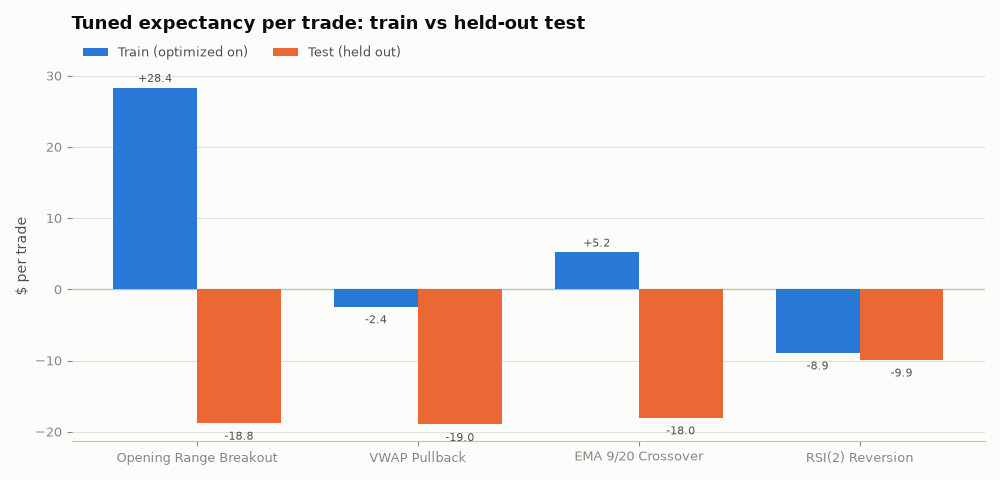
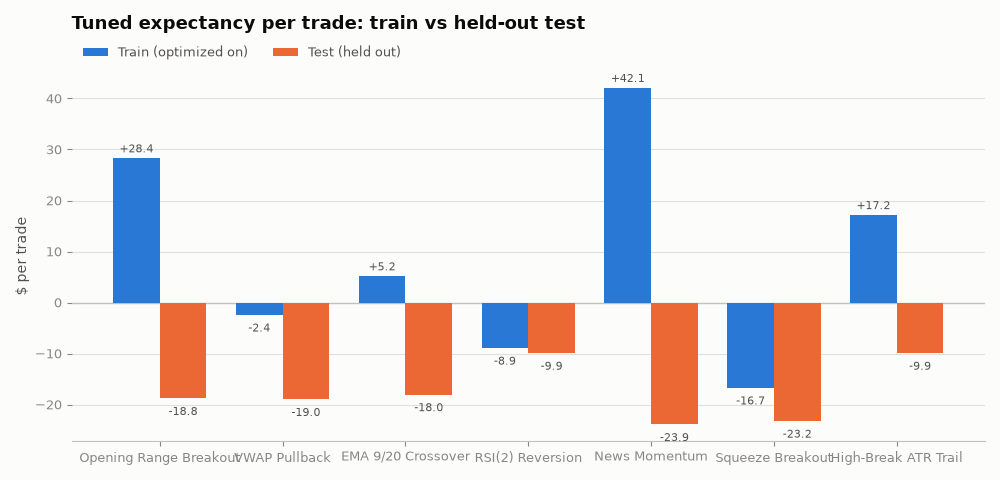
tuning v0.3: out-of-sample check across all 8 — News Momentum's edge doesn't survive
- default News Momentum on held-out month: -$20.45/trade (full-window +$1.62
  was earned entirely in the train period)
- tuned News Momentum is the worst overfit yet: +$42.15 train -> -$23.89 test
- every strategy negative in the held-out month regardless of parameters:
  regime information, not strategy information
- README verdict table updated to all 8 strategies

diff --git a/README.md b/README.md
@@ -6,28 +6,35 @@ risk sizing — then paper-traded via the Alpaca API. The point is to measure,
 not to believe: which of the setups people actually teach survives contact
 with out-of-sample data?
 
-## Current verdict (60 days, 5-minute bars, v0.1 untuned rules)
+## Current verdict (60 days, 5-minute bars, untuned rules)
 
 | Strategy | Trades | Win rate | Profit factor | Expectancy/trade | Total P&L |
 |---|---|---|---|---|---|
 | RSI(2) Reversion | 396 | **52.0%** | 0.53 | −$10.87 | −$4,304 |
 | Gap & Go | 4 | 50.0% | 0.87 | −$22.14 | −$89 |
-| Opening Range Breakout | 179 | 46.9% | **0.96** | −$3.47 | −$621 |
+| Opening Range Breakout | 179 | 46.9% | 0.96 | −$3.47 | −$621 |
+| News Momentum | 30 | 46.7% | **1.04** | **+$1.62** | +$49 |
+| High-Break ATR Trail | 154 | 37.0% | 0.89 | −$6.35 | −$978 |
 | VWAP Pullback | 246 | 34.6% | 0.75 | −$14.33 | −$3,524 |
 | EMA 9/20 Crossover | 240 | 27.5% | 0.62 | −$15.14 | −$3,633 |
+| Squeeze Breakout | 142 | 25.4% | 0.34 | −$35.52 | −$5,043 |
 
 ![Cumulative P&L by strategy](results/equity_curves.png)
 
-**The honest headline: every strategy lost money in this window.** That is the
+**The honest headline: no strategy has a validated edge yet.** That is the
 expected result for untuned textbook rules on liquid large caps after slippage —
-and it's the whole reason to test before trading. Two early lessons the data
+and it's the whole reason to test before trading. Three lessons the data
 already teaches:
 
 1. **Win rate is not profitability.** The "best" strategy by win rate (RSI(2),
-   52%) has the *worst* expectancy — its average loss is twice its average win.
-   Ranking by profit factor instead puts Opening Range Breakout on top (0.96,
-   nearly breakeven).
-2. **Sample size gates every conclusion.** Gap & Go looks harmless at −$89, but
+   52%) has one of the *worst* expectancies — its average loss is twice its
+   average win.
+2. **A full-window profit can be an illusion.** News Momentum is the only
+   strategy with a profit factor above 1.0 — but the train/test split shows its
+   entire profit lives in the earlier weeks; on the held-out final month it
+   loses −$20.45/trade like everything else. Full-window totals hide regime
+   dependence.
+3. **Sample size gates every conclusion.** Gap & Go looks harmless at −$89, but
    four trades is noise, not evidence — its 2% gap filter almost never fires on
    mega caps, which is itself a finding: the strategy's edge (if any) lives in
    the low-float small caps it was designed for.
@@ -35,23 +42,25 @@ already teaches:
 Full metrics, exit-reason breakdown, and the trade-by-trade log:
 [results/RESULTS.md](results/RESULTS.md).
 
-## Tuning (v0.2): can stops and targets fix it?
+## Tuning: can stops and targets fix it?
 
 Short answer so far: **no — and the way it fails is the lesson.** A grid search
 over each strategy's stop placement, profit targets, and entry thresholds
-(~75 parameter sets), optimized by expectancy on the first 36 sessions and
-validated on 24 held-out sessions:
+(~93 parameter sets across all eight strategies), optimized by expectancy on
+the first 36 sessions and validated on 24 held-out sessions:
 
 ![Train vs test expectancy](results/tuning_shrinkage.png)
 
-- The star of the training window (ORB at **+$28/trade**) lost **−$19/trade**
-  on data it hadn't seen — the grid search memorized the past, it didn't find
-  an edge.
-- In 3 of 4 tunable strategies, the "optimal" parameters did *worse* out-of-
+- The worst offender is now News Momentum: tuned parameters earned
+  **+$42/trade** in-sample and lost **−$24/trade** out-of-sample — a 66-dollar
+  swing from memorizing 36 sessions. ORB does the same dance (+$28 → −$19).
+- In most tunable strategies, the "optimal" parameters did *worse* out-of-
   sample than the untuned defaults.
-- Every test-window expectancy landed between −$10 and −$19 regardless of
+- Every test-window expectancy landed between −$7 and −$35 regardless of
   parameters: the held-out month was simply hostile to long-only intraday on
   this universe, which is a regime problem no stop-loss setting can tune away.
+  That makes regime filters (learned from the trade journal's condition
+  columns) the next lever — not more parameter search.
 - Gap & Go couldn't be tuned at all — even at a 1% gap threshold it produced
   too few trades on mega caps to evaluate honestly.
 

diff --git a/PROGRESS.md b/PROGRESS.md
@@ -33,9 +33,20 @@ overnight.
   price window, quietly starving the news strategy of a month of signals —
   found by cross-checking date ranges, fixed by widening the fetch window.
 
-**Next.** Let the paper loop and journal run for a couple of weeks; check the
-tuner's out-of-sample verdict on News Momentum; then mine the journal's
-condition columns for regime filters.
+**The out-of-sample verdict (same day, worth its own paragraph).** The tuner's
+train/test split killed the celebration: News Momentum's full-window profit
+lives entirely in the first 36 sessions. On the held-out final month it loses
+−$20.45/trade with default parameters, and its *tuned* parameters produced the
+lab's worst overfit yet (+$42.15 train → −$23.89 test). High-Break ATR Trail
+told the same story in miniature (+$17.22 → −$9.90). Eight strategies, ~93
+parameter sets, one conclusion twice confirmed: on this universe and window,
+parameter search finds memories, not edges — and every strategy bleeds in the
+same held-out month, which is regime information, not strategy information.
+
+**Next.** Let the paper loop and journal run for a couple of weeks to
+accumulate genuinely unseen trades; then mine the journal's condition columns
+for regime filters — the data now says *when* you trade matters more than
+*what* you tweak.
 
 ## 2026-08-23 — v0.2: parameter tuning, and the overfitting lesson
 

diff --git a/results/TUNING.md b/results/TUNING.md
@@ -12,6 +12,9 @@ than 20 train trades are discarded as noise.
 | VWAP Pullback | {'target_r': 2.0, 'stop_buffer': 0.995} | $-2.41 | $-18.97 | $-24.13 | 93 | 37.6% | $-1,764 |
 | EMA 9/20 Crossover | {'fast': 5, 'slow': 13, 'stop_bars': 5} | $+5.23 | $-18.03 | $-16.16 | 149 | 21.5% | $-2,687 |
 | RSI(2) Reversion | {'entry_level': 15.0, 'exit_level': 70.0, 'stop_pct': 0.005} | $-8.91 | $-9.90 | $-7.50 | 231 | 47.2% | $-2,287 |
+| News Momentum | {'window_min': 30, 'vol_mult': 1.2, 'target_r': 3.0} | $+42.15 | $-23.89 | $-20.45 | 21 | 33.3% | $-502 |
+| Squeeze Breakout | {'bw_lookback': 6, 'target_r': 1.5} | $-16.71 | $-23.22 | $-34.35 | 86 | 31.4% | $-1,997 |
+| High-Break ATR Trail | {'window_bars': 6, 'trail_atr_mult': 1.5} | $+17.22 | $-9.90 | $-19.92 | 73 | 35.6% | $-722 |
 
 ![Train vs test expectancy](tuning_shrinkage.png)
 
